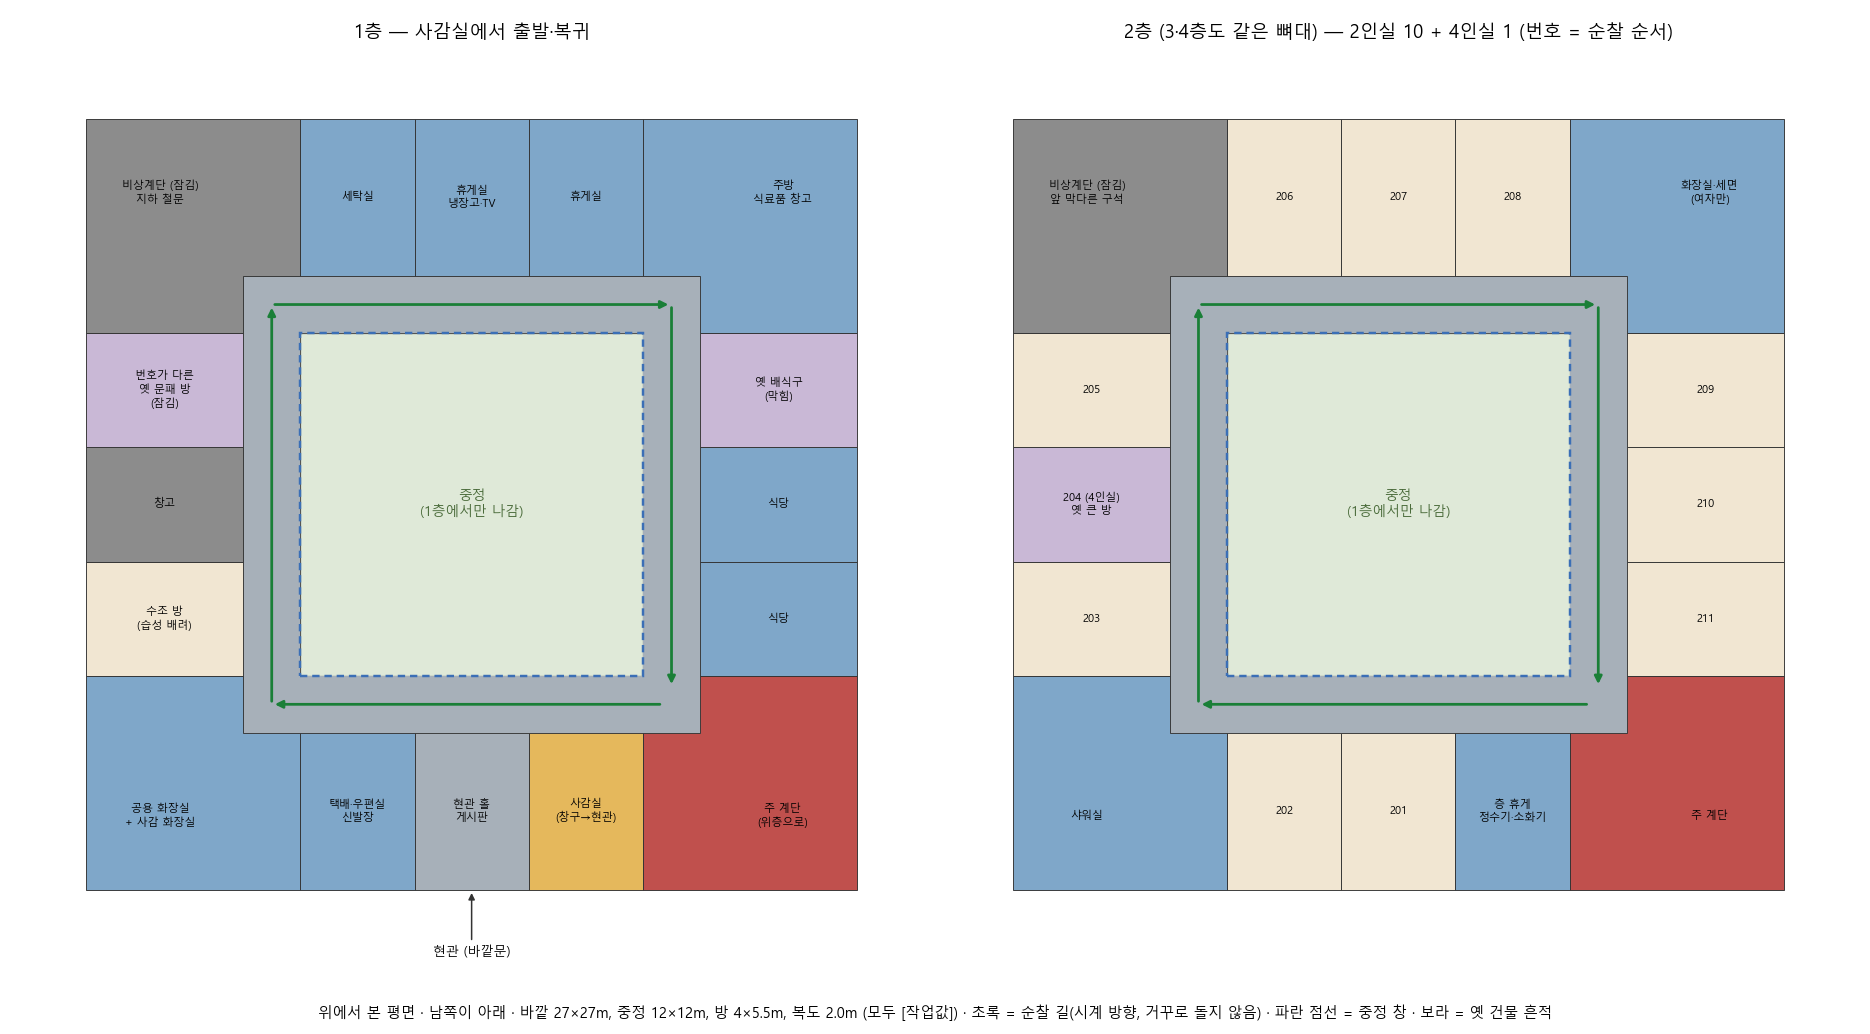
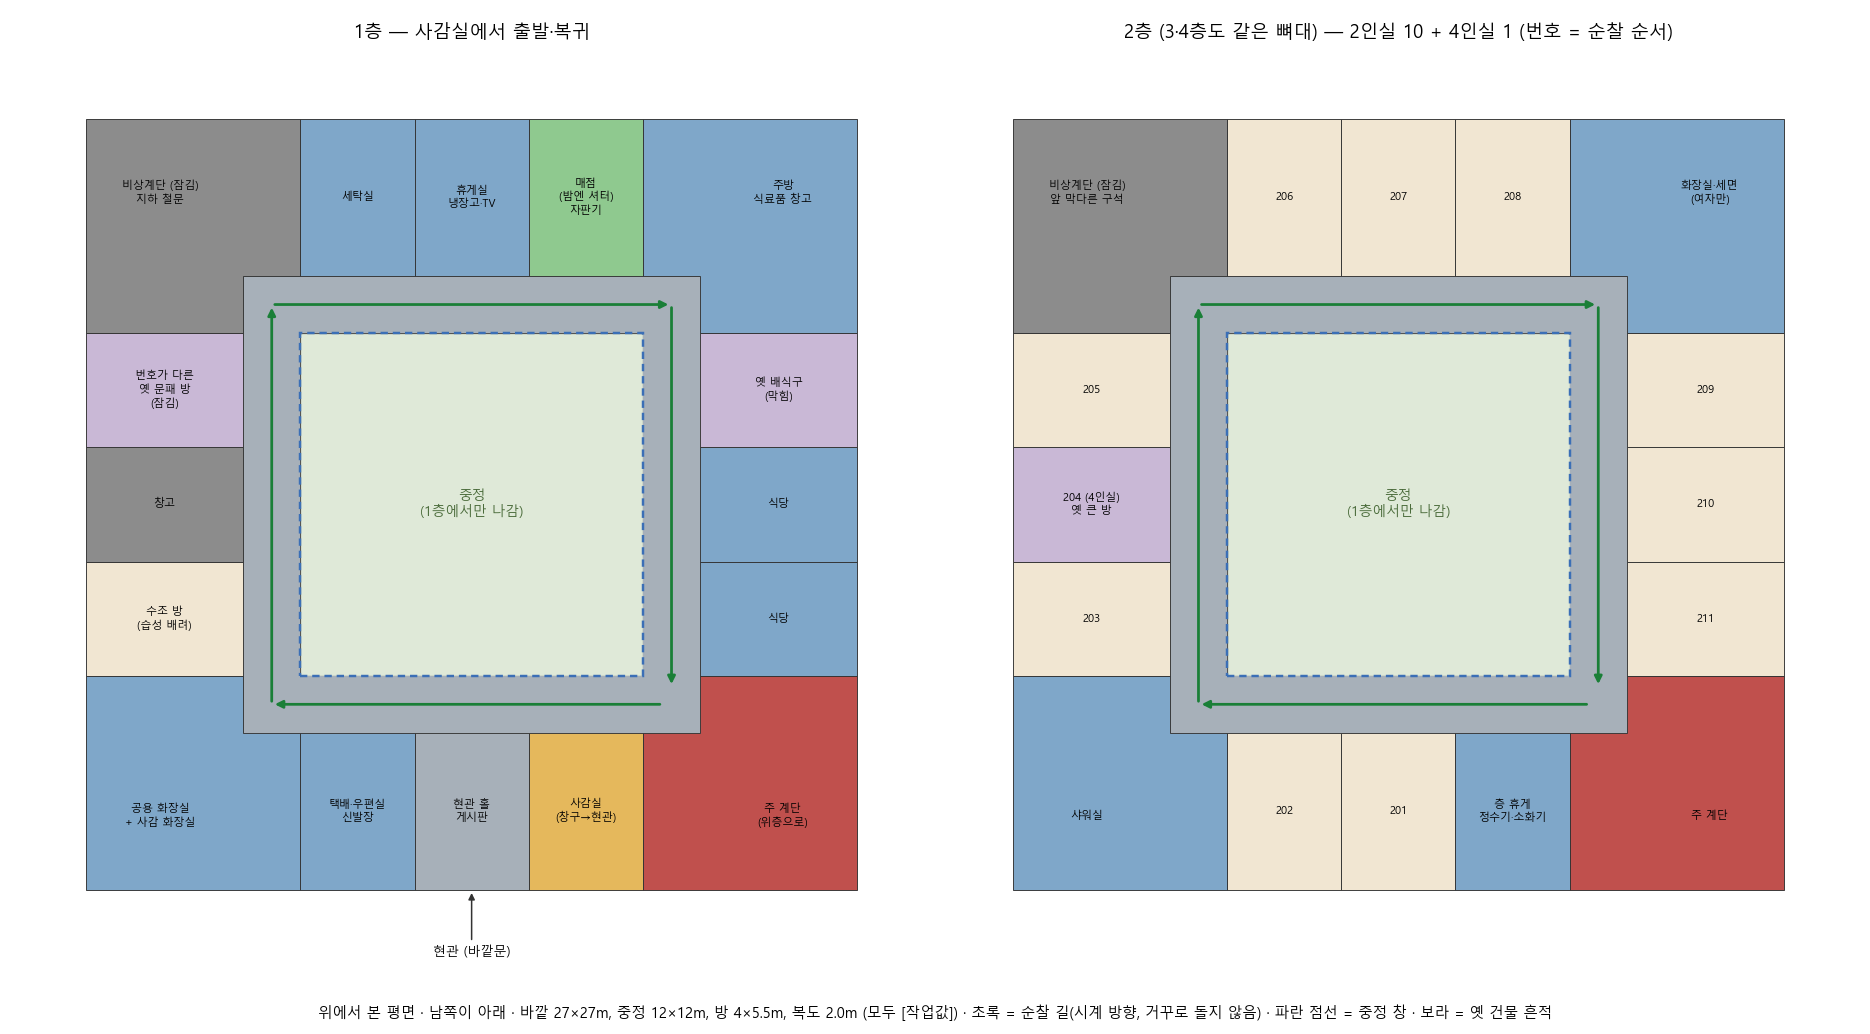
기획: 1층 평면에 매점 추가(휴게실 옆, 밤 셔터·자판기)

Changed region(s): [[0.2791, 0.0928, 0.3412, 0.2785]]

diff --git a/tools/dev/building_plan.py b/tools/dev/building_plan.py
@@ -13,7 +13,7 @@ plt.rcParams["font.family"] = "Malgun Gothic"
 plt.rcParams["axes.unicode_minus"] = False
 
 C = {"room": "#f1e6d2", "cor": "#a7b0b9", "stair": "#c0504d", "fac": "#7fa7c9", "staff": "#e5b85c",
-	"lock": "#8c8c8c", "yard": "#dfe9d8", "old": "#c9b8d6"}
+	"lock": "#8c8c8c", "yard": "#dfe9d8", "shop": "#8fc98f", "old": "#c9b8d6"}
 OUT, CY0, CY1 = 27.0, 7.5, 19.5  # 바깥, 중정 범위
 R = 5.5  # 방 깊이
 
@@ -72,7 +72,7 @@ def f1_extra(ax):
 F1_MID = {
 	"S": [("택배·우편실\n신발장", "fac"), ("현관 홀\n게시판", "cor"), ("사감실\n(창구→현관)", "staff")],
 	"E": [("식당", "fac"), ("식당", "fac"), ("옛 배식구\n(막힘)", "old")],
-	"N": [("세탁실", "fac"), ("휴게실\n냉장고·TV", "fac"), ("휴게실", "fac")],
+	"N": [("세탁실", "fac"), ("휴게실\n냉장고·TV", "fac"), ("매점\n(밤엔 셔터)\n자판기", "shop")],
 	"W": [("수조 방\n(습성 배려)", "room"), ("창고", "lock"), ("번호가 다른\n옛 문패 방\n(잠김)", "old")],
 }
 F1_CORNER = {"SE": ("주 계단\n(위층으로)", "stair"), "SW": ("공용 화장실\n+ 사감 화장실", "fac"),

diff --git a/docs/STATUS.md b/docs/STATUS.md
@@ -22,7 +22,7 @@ _마지막 갱신: 2026-11-28 · **새 채팅은 PC Claude Code에서 시작 —
 7. 사용자 결정 대기: 건물 이름 · 메인 기숙생 고르기 · 게임 길이 · 가제 · 밤 방식(어두운 빛 / 거친 저해상도) · 정확한 등신(작업값 5.5)
 
 ## 최근 완료
-- 2026-11-28: **건물 모양 확정 · 1·2층 평면 초안** — ㅁ자 중정 + 원래 기숙사가 아닌 건물 [확정] · 27×27m, 편복도 고리(복도에서 늘 중정 창), 주 계단 1 + 비상계단(잠김), 1층 사감실 = 현관 창구 옆 · 2~4층 2인실 10 + 옛 4인실 1, 방 번호 = 시계 방향 순찰 순서 · 수칙 6 '복도 끝 창문' = 4층 막다른 구석 (building-layout §10)
+- 2026-11-28: **건물 모양 확정 · 1·2층 평면 초안** — ㅁ자 중정 + 원래 기숙사가 아닌 건물 [확정] · 27×27m, 편복도 고리(복도에서 늘 중정 창), 주 계단 1 + 비상계단(잠김), 1층 사감실 = 현관 창구 옆 · 1층 매점(사용자 추가) · 2~4층 2인실 10 + 옛 4인실 1, 방 번호 = 시계 방향 순찰 순서 · 수칙 6 '복도 끝 창문' = 4층 막다른 구석 (building-layout §10)
 - 2026-11-28: **실제 기숙사 건물 조사** — 유형(중복도·편복도·회로형·계단실·중정) · 사례(교토 요시다료·이화 빌링슬리관·미국 여자 기숙사 하우스마더·Gentry Hall '남자는 위층 금지') · 치수 · 조사 결과 ㅁ자 기숙사는 드묾 → C면 '원래 기숙사가 아닌 건물'(조각만) [후보] (building-layout §9)
 - 2026-11-28: **건물 구조 설계 시작** (사용자: 만들기 전에 층·건물·디테일부터, 스타일 미확정) — 이미 정해진 것 정리 · 건물 모양 후보 A 일자/B ㄷ자/C ㅁ자 중정(추천: 수칙 '한 바퀴, 거꾸로 돌지 마'와 맞음) · 층 배치·크기·공간별 물건 첫 목록 [후보] (`building-layout.md`, 그림 `img/building_20261128/shapes.png`)
 - 2026-11-28: **회색 상자 판 Unreal 시작** — `DormHorror/` C++ 프로젝트 빌드 · Git LFS · Godot 정리(태그 `godot-last`) · 사감 1인칭(2.6 m/s·숙이기·손전등·E) · 하루 진행기(시간대 5개, csv → 데이터 표, 밤 불 꺼짐) · 물건 6종 · 시험 복도 · 한글 HUD · Claude가 스스로 플레이·찍어 확인 (`img/graybox_20261128/ue_graybox_v1.jpg`, tech-plan §5-6)
